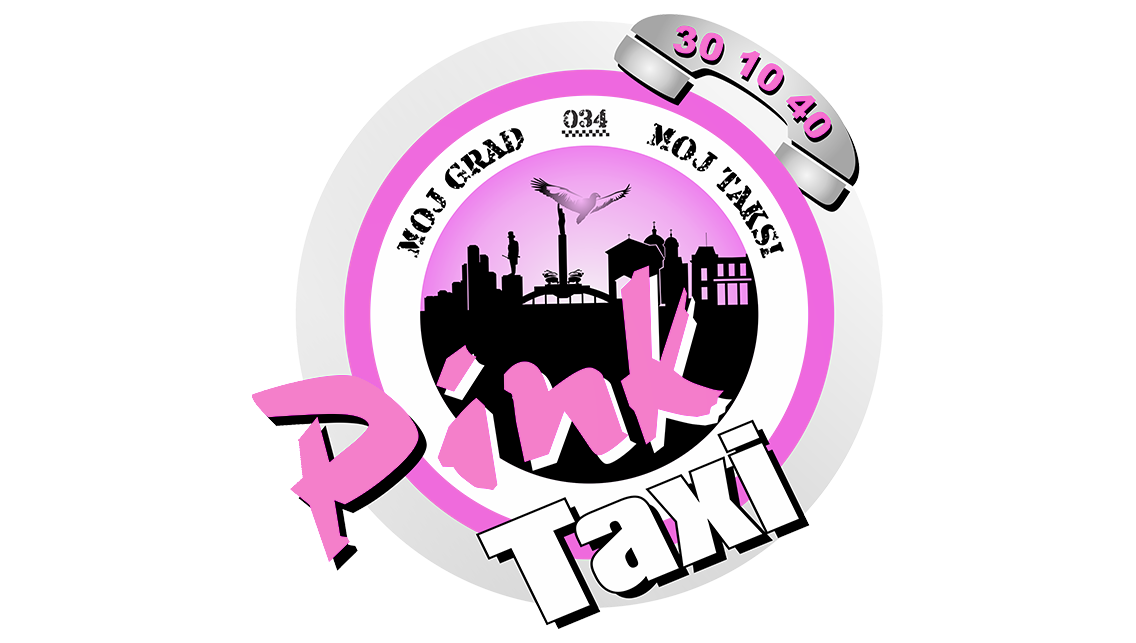
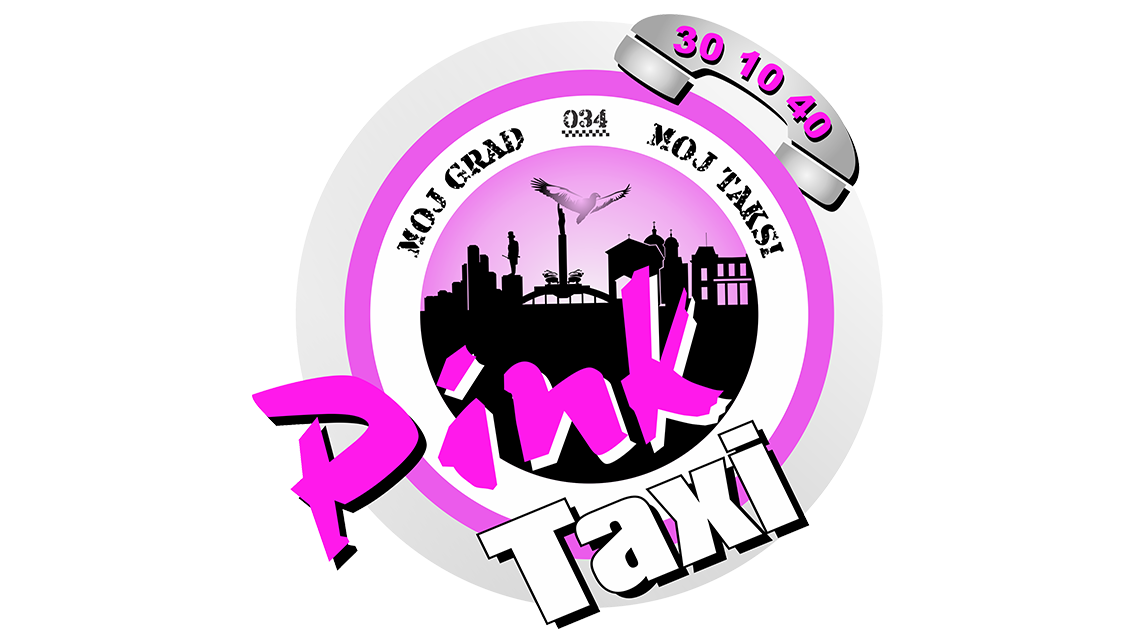
new color

Changed region(s): [[0.2157, 0.4044, 0.647, 0.8709], [0.5854, 0.0311, 0.7394, 0.2177]]

diff --git a/css/style.css b/css/style.css
@@ -50,7 +50,7 @@ h6 {
 .back-to-top {
   position: fixed;
   display: none;
-  background: #C3509D;
+  background: #ff17ec;
   color: #fff;
   width: 44px;
   height: 44px;
@@ -183,12 +183,12 @@ h6 {
   font-weight: 400;
   letter-spacing: 3px;
   text-transform: uppercase;
-  color: #c3509D;
+  color: #ff17ec;
 }
 
 #header .logo h1 a,
 #header .logo h1 a:hover {
-  color: #c3509D;
+  color: #ff17ec;
   text-decoration: none;
 }
 
@@ -251,8 +251,8 @@ h6 {
 }
 
 #intro .intro-info .btn-get-started {
-  background: #F47FCA;
-  border: 2px solid #7F3271;
+  background: #ff17ec;
+  border: 2px solid #ff17ec;
   color: #fff;
 }
 
@@ -267,8 +267,8 @@ h6 {
 }
 
 #intro .intro-info .btn-services:hover {
-  background: #c3509d;
-  border-color: #c3509d;
+  background: #ff17ec;
+  border-color: #ff17ec;
   color: #fff;
 }
 
@@ -389,7 +389,7 @@ h6 {
   left: -260px;
   width: 260px;
   padding-top: 18px;
-  background: #C3509D;
+  background: #ff17ec;
   transition: 0.4s;
 }
 
@@ -457,7 +457,7 @@ h6 {
 
 .mobile-nav-toggle i {
   margin: 18px 18px 0 0;
-  color: #C3509D;
+  color: #ff17ec;
 }
 
 .mobile-nav-overly {
@@ -575,17 +575,17 @@ h6 {
   flex-direction: column;
   text-align: center;
   border-radius: 50%;
-  border: 2px solid #C3509D;
+  border: 2px solid #ff17ec;
   transition: all 0.3s ease-in-out;
 }
 
 #about .about-container .icon-box .icon i {
-  color: #C3509D;
+  color: #ff17ec;
   font-size: 24px;
 }
 
 #about .about-container .icon-box:hover .icon {
-  background: #C3509D;
+  background: #ff17ec;
 }
 
 #about .about-container .icon-box:hover .icon i {
@@ -633,7 +633,7 @@ h6 {
   overflow: hidden;
   border-radius: 10px;
   margin: 0 10px 40px 10px;
-  background: #A83F8D;
+  background: #ff17ec;
   box-shadow: 0 10px 29px 0 rgba(68, 88, 144, 0.1);
   transition: all 0.3s ease-in-out;
   color: white;
@@ -685,12 +685,12 @@ h6 {
 
 #why-us .section-header h3,
 #why-us .section-header p {
-  color: #A83F8D;
+  color: #ff17ec;
 }
 
 #why-us .card {
-  background: #A83F8D;
-  border-color: #F47FCA;
+  background: #ff17ec;
+  border-color: #ff17ec;
   box-shadow: 0 10px 20px 0 rgba(68, 88, 144, 0.1);
 
   border-radius: 10px;
@@ -1237,7 +1237,7 @@ color: white;
 }
 
 #footer .footer-top {
-  background: #A83F8D;
+  background: #ff17ec;
   padding: 60px 0 30px 0;
 }
 

diff --git a/index.html b/index.html
@@ -23,6 +23,15 @@
   <link href="lib/ionicons/css/ionicons.min.css" rel="stylesheet">
   <link href="lib/owlcarousel/assets/owl.carousel.min.css" rel="stylesheet">
   <link href="lib/lightbox/css/lightbox.min.css" rel="stylesheet">
+  <!-- mobile specific metas
+      ================================================== -->
+          <meta name="viewport" content="width=device-width, initial-scale=1">
+          <meta name="theme-color" content="#ff17ec">
+        	<!-- Windows Phone -->
+        	<meta name="msapplication-navbutton-color" content="#ff17ec">
+        	<!-- iOS Safari -->
+        	<meta name="apple-mobile-web-app-capable" content="yes">
+        	<meta name="apple-mobile-web-app-status-bar-style" content="#ff17ec">
 
   <!-- Main Stylesheet File -->
   <link href="css/style.css" rel="stylesheet">
